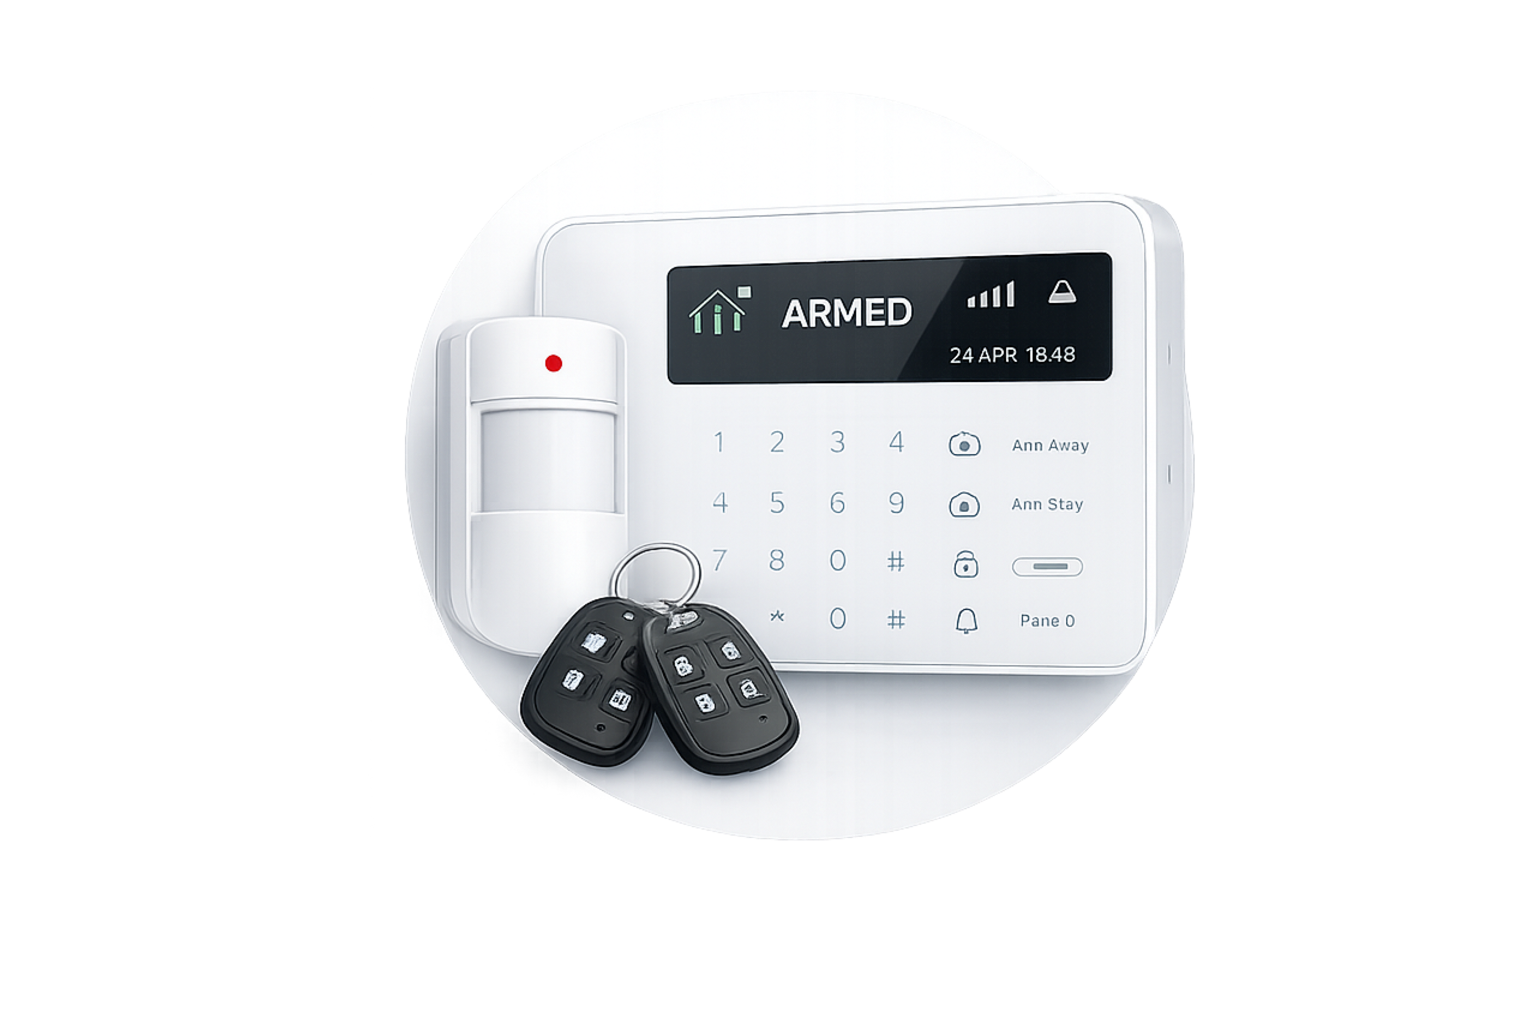
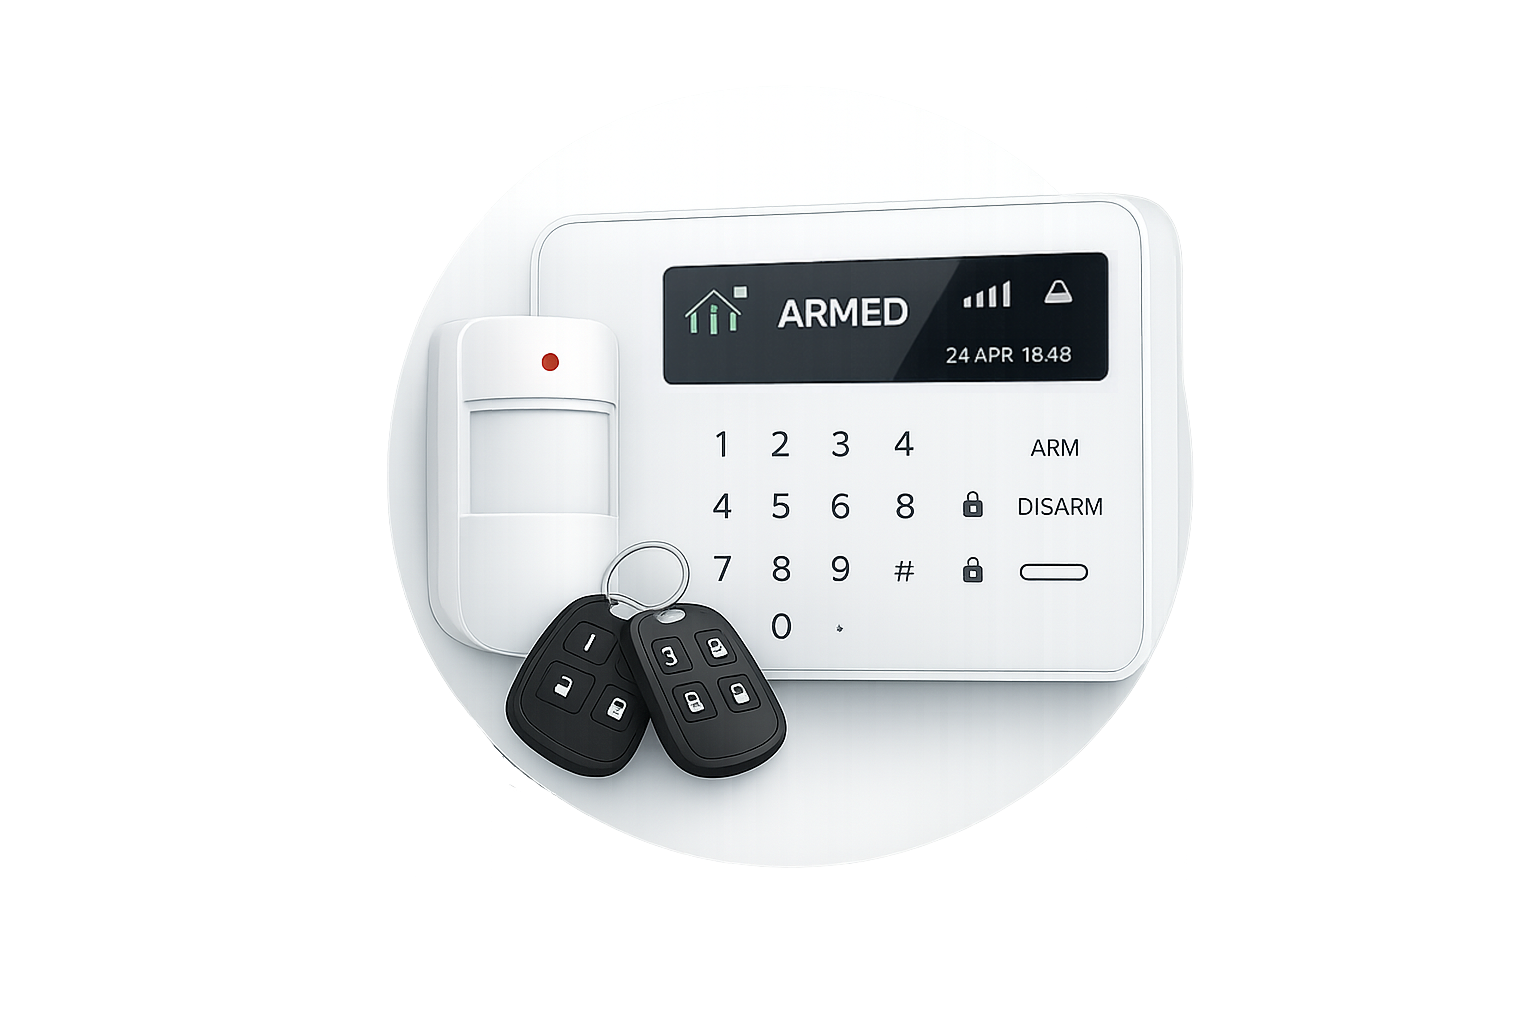
Updated some images

diff --git a/our-services.html b/our-services.html
@@ -176,7 +176,7 @@
                                 </p>
                             </div>
                             <div class="bg-white border border-[#d1d1d1] p-6 rounded-lg shadow md:text-left text-center">
-                                <img src="/img/Services/Services-Keypad.png" class="h-32 w-32 md:mx-0 mx-auto">
+                                <img src="/img/Services/Services-Keypad2.png" class="h-32 w-32 md:mx-0 mx-auto">
                                 <h3 class="my-4 text-xl text-black font-semibold">Access Control  <br class="md:block hidden">Systems</h3>
                                 <p class="text-gray-400 text-sm md:text-base lg:mx-0 leading-relaxed">
                                     Keypad, fob, card, and biometric access control systems for secure, controlled entry to your building or site.

diff --git a/aboutus.html b/aboutus.html
@@ -189,7 +189,7 @@
                             <p class="font-semibold text-sm">Intruder Alarms</p>
                         </div>
                         <div class="bg-white border border-[#d1d1d1] rounded-xl p-6 text-center shadow-sm">
-                            <img src="img/services/Services-Keypad.png" class="h-16 mx-auto mb-4">
+                            <img src="img/services/Services-Keypad2.png" class="h-16 mx-auto mb-4">
                             <p class="font-semibold text-sm">Access Control</p>
                         </div>
                         <div class="bg-white border border-[#d1d1d1] rounded-xl p-6 text-center shadow-sm">
